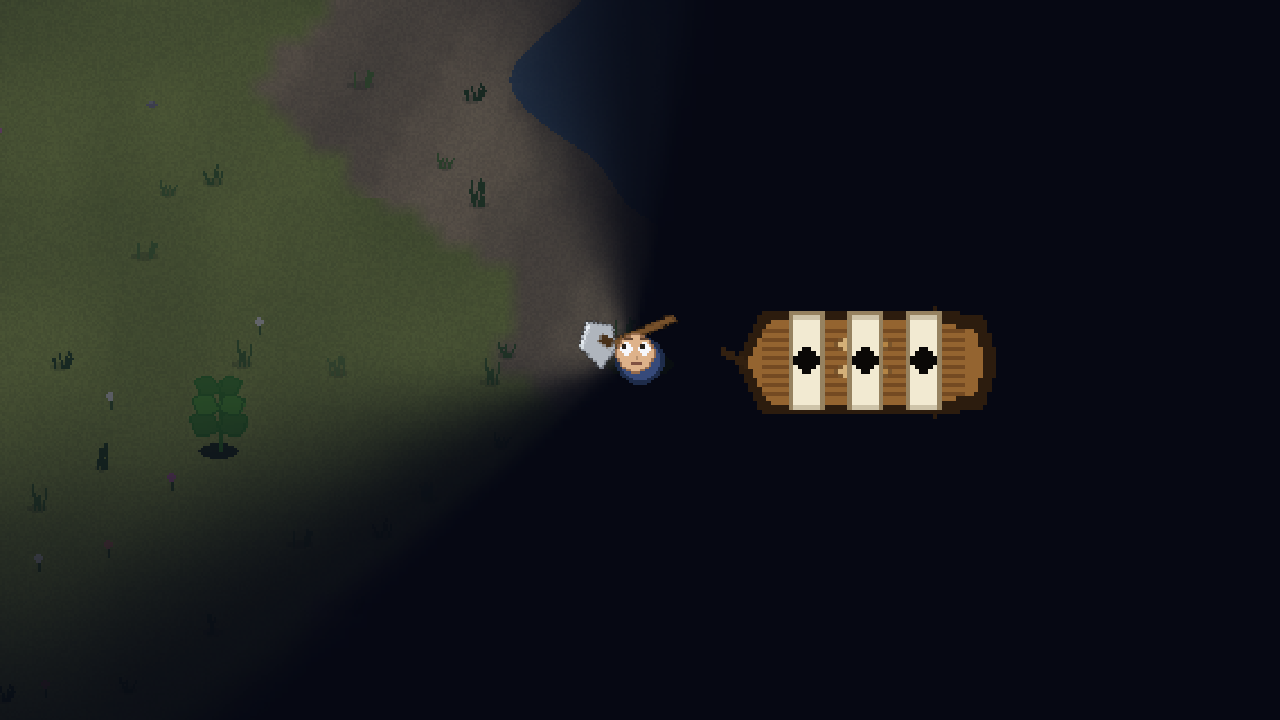
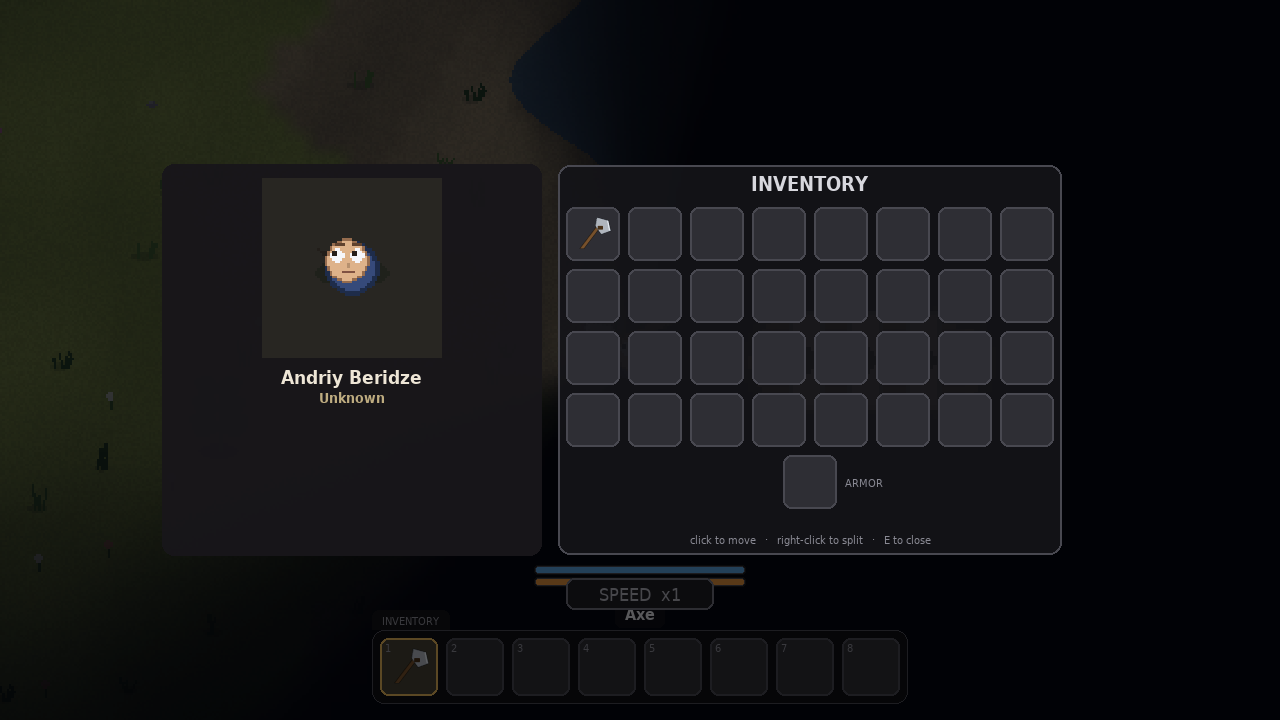
Persona portrait: bigger (180px) and crisp (nearest-neighbour upscale, no smoothscale blur). Skill levels always visible: lighter empty segments and an Lv N/M readout, even at 0.

diff --git a/ui.py b/ui.py
@@ -2034,7 +2034,7 @@ class PersonaCard:
         self.font_name = pygame.font.SysFont("dejavusans", 19, bold=True)
         self.font_occ = pygame.font.SysFont("dejavusans", 14, bold=True)
         self.font_skill = pygame.font.SysFont("dejavusans", 13, bold=True)
-        self.portrait_size = 150
+        self.portrait_size = 180
 
     def _occupation(self, subject) -> str:
         if (getattr(subject, "is_player", False)
@@ -2049,15 +2049,16 @@ class PersonaCard:
             return "Unknown"
 
     def _portrait(self, subject) -> pygame.Surface:
-        # Render the person small, then blow it up so he fills the frame.
-        small = 64
+        # Render the person 1:1, then scale up with nearest-neighbour so the
+        # sprite stays crisp (no smoothscale blur) -- big and sharp.
+        small = 72
         tmp = pygame.Surface((small, small))
         tmp.fill((40, 38, 34))
         try:
             subject.draw(tmp, subject.x - small / 2.0, subject.y - small / 2.0)
         except Exception:
             pass
-        return pygame.transform.smoothscale(tmp, (self.portrait_size, self.portrait_size))
+        return pygame.transform.scale(tmp, (self.portrait_size, self.portrait_size))
 
     def _level(self, val: float, lo: float, hi: float, bands: int) -> int:
         return max(0, min(bands, int((val - lo) / (hi - lo) * bands)))
@@ -2101,10 +2102,10 @@ class PersonaCard:
                 seg_w = max(4, (bar_w - (bands - 1) * 2) // bands)
                 for k in range(bands):
                     sx = bar_x + k * (seg_w + 2)
-                    col = (226, 176, 90) if k < lvl else (48, 46, 52)
+                    col = (226, 176, 90) if k < lvl else (72, 70, 78)
                     pygame.draw.rect(board, col, (sx, yy + 4, seg_w, 9),
                                      border_radius=2)
-                lv = self.font_skill.render("Lv %d" % lvl, True, (190, 172, 128))
+                lv = self.font_skill.render("Lv %d/%d" % (lvl, bands), True, (190, 172, 128))
                 board.blit(lv, (bar_x + bar_w + 6, yy + 1))
                 yy += row_h
         screen.blit(board, (x, y))
